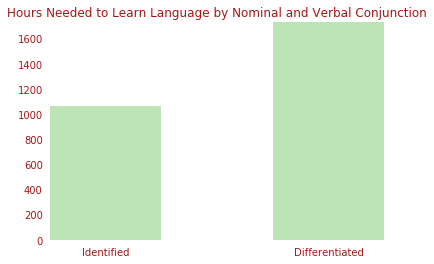
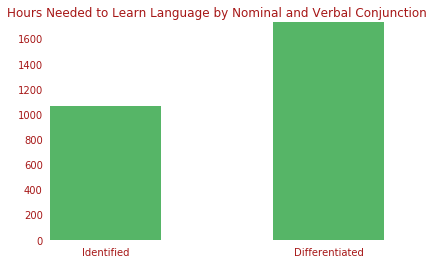
Darken bar graphs

diff --git a/_posts/2019-08-30-Anthony-Hart-and-the-Quest-for-a-Statistically-Significant-Result-About-the-Difficulty-of-Different-Languages.md b/_posts/2019-08-30-Anthony-Hart-and-the-Quest-for-a-Statistically-Significant-Result-About-the-Difficulty-of-Different-Languages.md
@@ -173,7 +173,7 @@ The most obvious thing to start with is simply the number of genders in the lang
 <div style="text-align:center" TITLE="Hours Needed to Learn Language by Number of Genders"><img src="../img/AHQSSRADDL/num_of_genders.png" /></div>
 
 <!-- 
-ax = langDf.pivot_table(values=['class_hours'], index='30A Number of Genders').sort_values('class_hours').plot(kind='bar', color='#BCE4B5');
+ax = langDf.pivot_table(values=['class_hours'], index='30A Number of Genders').sort_values('class_hours').plot(kind='bar', color='#56B567');
 
 fontColor = "#a61717"
 
@@ -212,7 +212,7 @@ The only place where gender plays a clear role in english is in pronoun usage. T
 <div style="text-align:center" TITLE="Hours Needed to Learn Language by Gender Distinctions in Independent Personal Pronouns"><img src="../img/AHQSSRADDL/num_of_genders_pronouns.png" /></div>
 
 <!-- 
-ax = langDf.pivot_table(values=['class_hours'], index='44A Gender Distinctions in Independent Personal Pronouns').sort_values('class_hours').plot(kind='bar', color='#BCE4B5');
+ax = langDf.pivot_table(values=['class_hours'], index='44A Gender Distinctions in Independent Personal Pronouns').sort_values('class_hours').plot(kind='bar', color='#56B567');
 
 fontColor = "#a61717"
 
@@ -281,7 +281,7 @@ The fist thing I find is the relation between languages with differnt words for 
 <div style="text-align:center" TITLE="Hours Needed to Learn Language by Word for Tea"><img src="../img/AHQSSRADDL/word_for_tea.png" /></div>
 
 <!-- 
-ax = langDf.pivot_table(values=['class_hours'], index='138A Tea').sort_values('class_hours').plot(kind='bar', color='#BCE4B5');
+ax = langDf.pivot_table(values=['class_hours'], index='138A Tea').sort_values('class_hours').plot(kind='bar', color='#56B567');
 
 fontColor = "#a61717"
 
@@ -333,7 +333,7 @@ Something that seems to genuenly contribute to difficulty is the handling of nom
 <div style="text-align:center" TITLE="Hours Needed to Learn Language by Nominal and Verbal Conjunction"><img src="../img/AHQSSRADDL/nominal_verbal_conjunction.png" /></div>
 
 <!-- 
-ax = langDf.pivot_table(values=['class_hours'], index='64A Nominal and Verbal Conjunction').sort_values('class_hours').plot(kind='bar', color='#BCE4B5');
+ax = langDf.pivot_table(values=['class_hours'], index='64A Nominal and Verbal Conjunction').sort_values('class_hours').plot(kind='bar', color='#56B567');
 
 fontColor = "#a61717"
 
@@ -369,7 +369,7 @@ usage of differentiaion vs identity. This appears significatnly in two categorie
 <div style="text-align:center" TITLE="Hours Needed to Learn Language by Comitatives and Instrumentals"><img src="../img/AHQSSRADDL/comitative_instrumental.png" /></div>
 
 <!-- 
-ax = langDf.pivot_table(values=['class_hours'], index='52A Comitatives and Instrumentals').sort_values('class_hours').plot(kind='bar', color='#BCE4B5');
+ax = langDf.pivot_table(values=['class_hours'], index='52A Comitatives and Instrumentals').sort_values('class_hours').plot(kind='bar', color='#56B567');
 
 fontColor = "#a61717"
 
@@ -402,7 +402,7 @@ Another significant result can be seen with suppletion. This is a phenomina wher
 <div style="text-align:center" TITLE="Hours Needed to Learn Language by Suppletion According to Tense and Aspect"><img src="../img/AHQSSRADDL/suppletion.png" /></div>
 
 <!-- 
-ax = langDf.pivot_table(values=['class_hours'], index='79A Suppletion According to Tense and Aspect').sort_values('class_hours').plot(kind='bar', color='#BCE4B5');
+ax = langDf.pivot_table(values=['class_hours'], index='79A Suppletion According to Tense and Aspect').sort_values('class_hours').plot(kind='bar', color='#56B567');
 
 fontColor = "#a61717"
 
